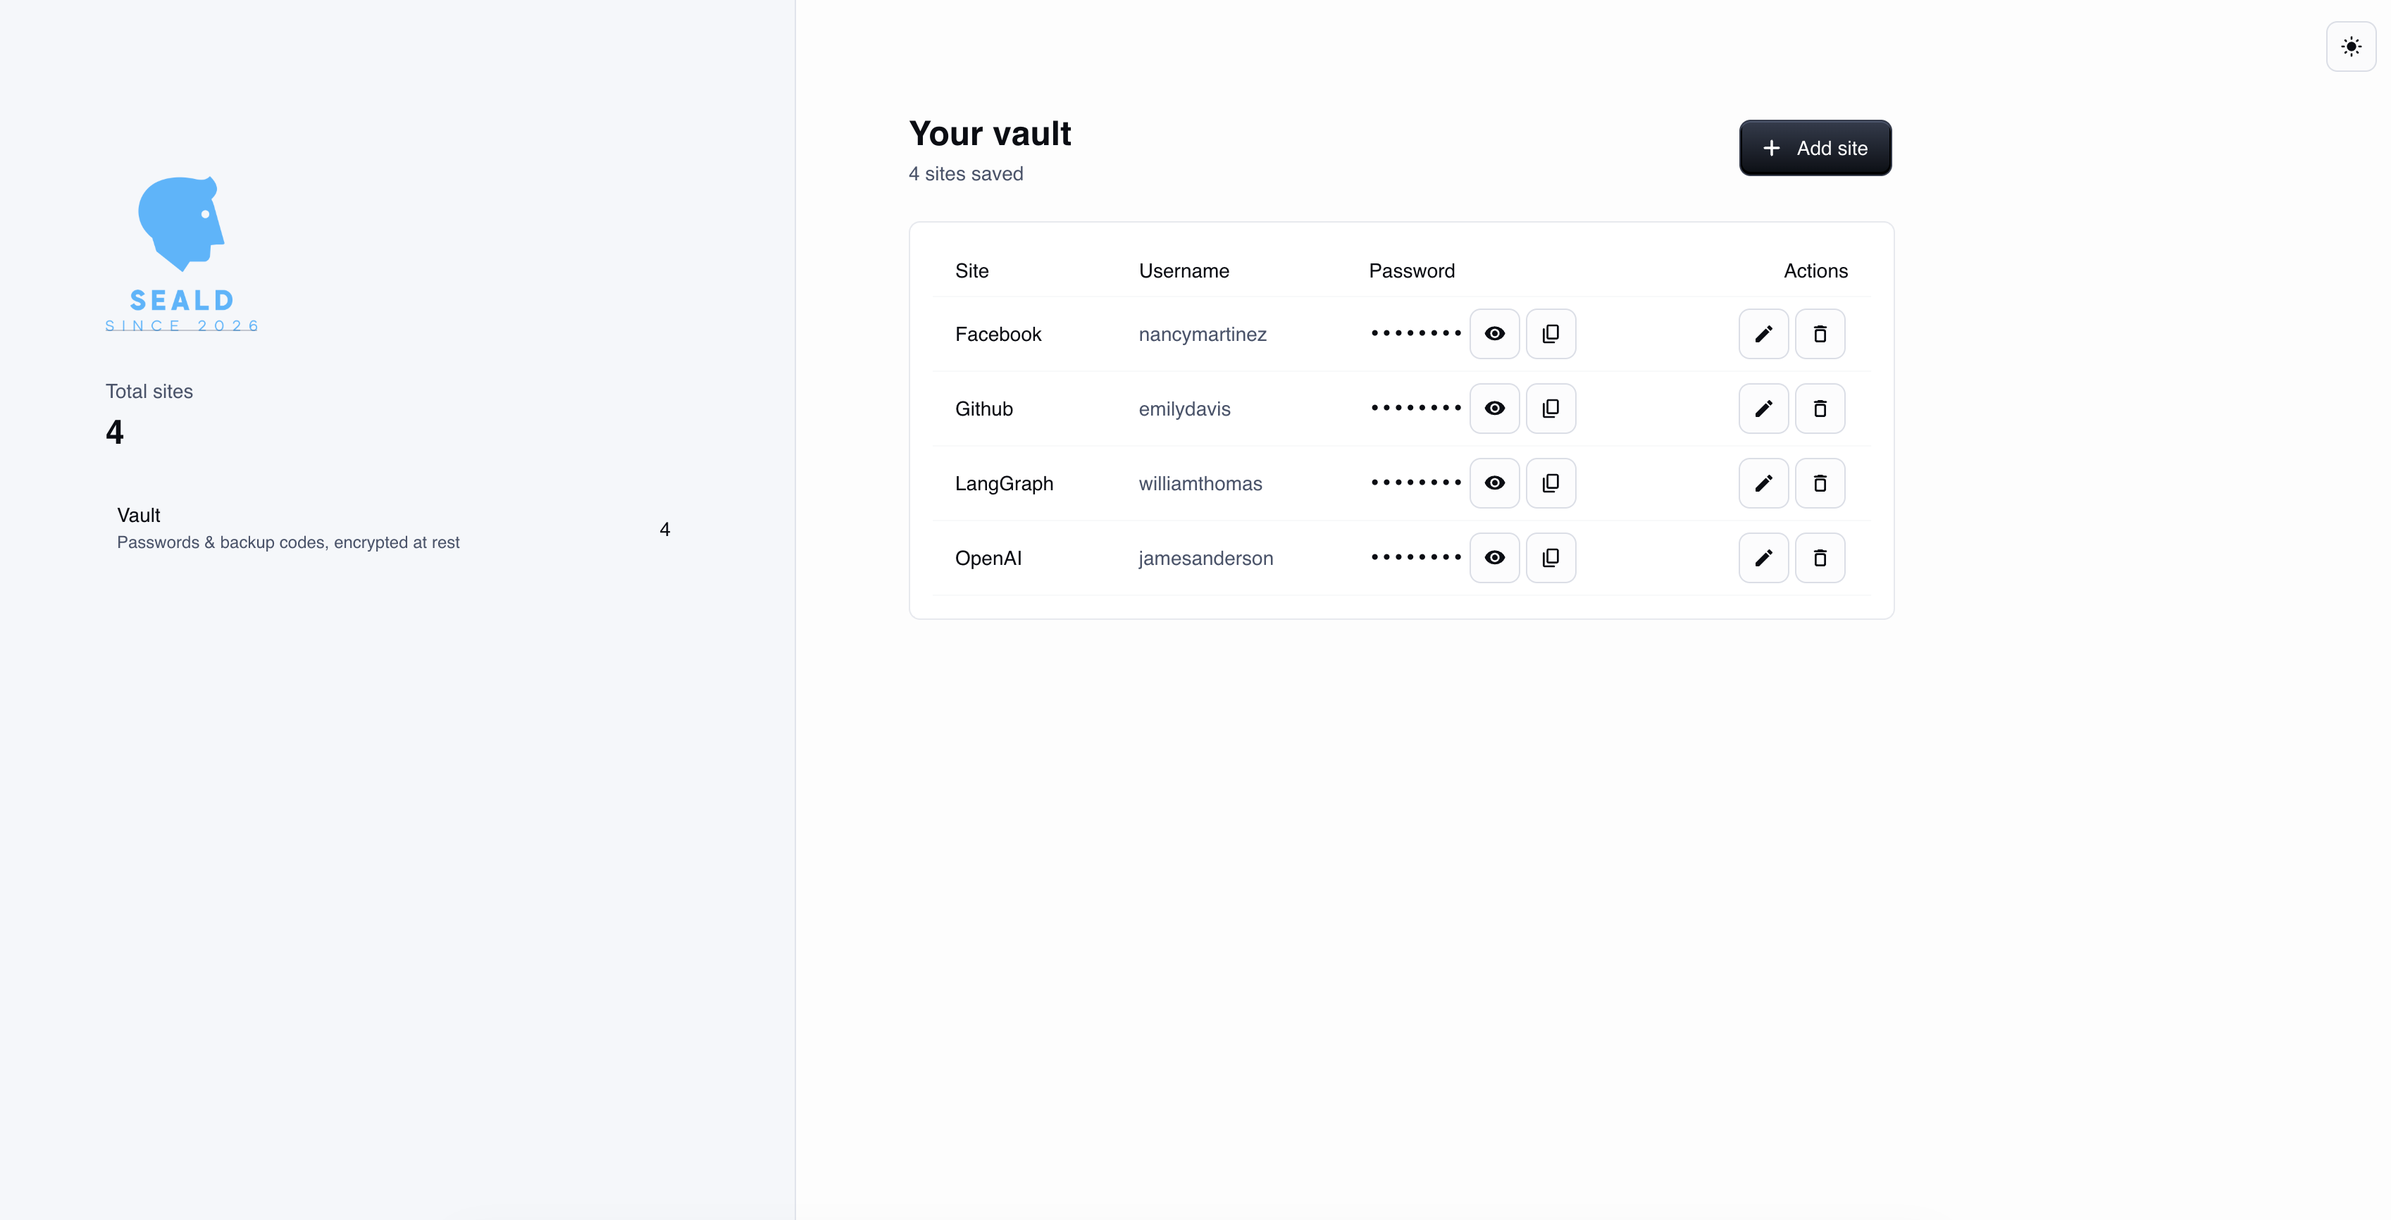
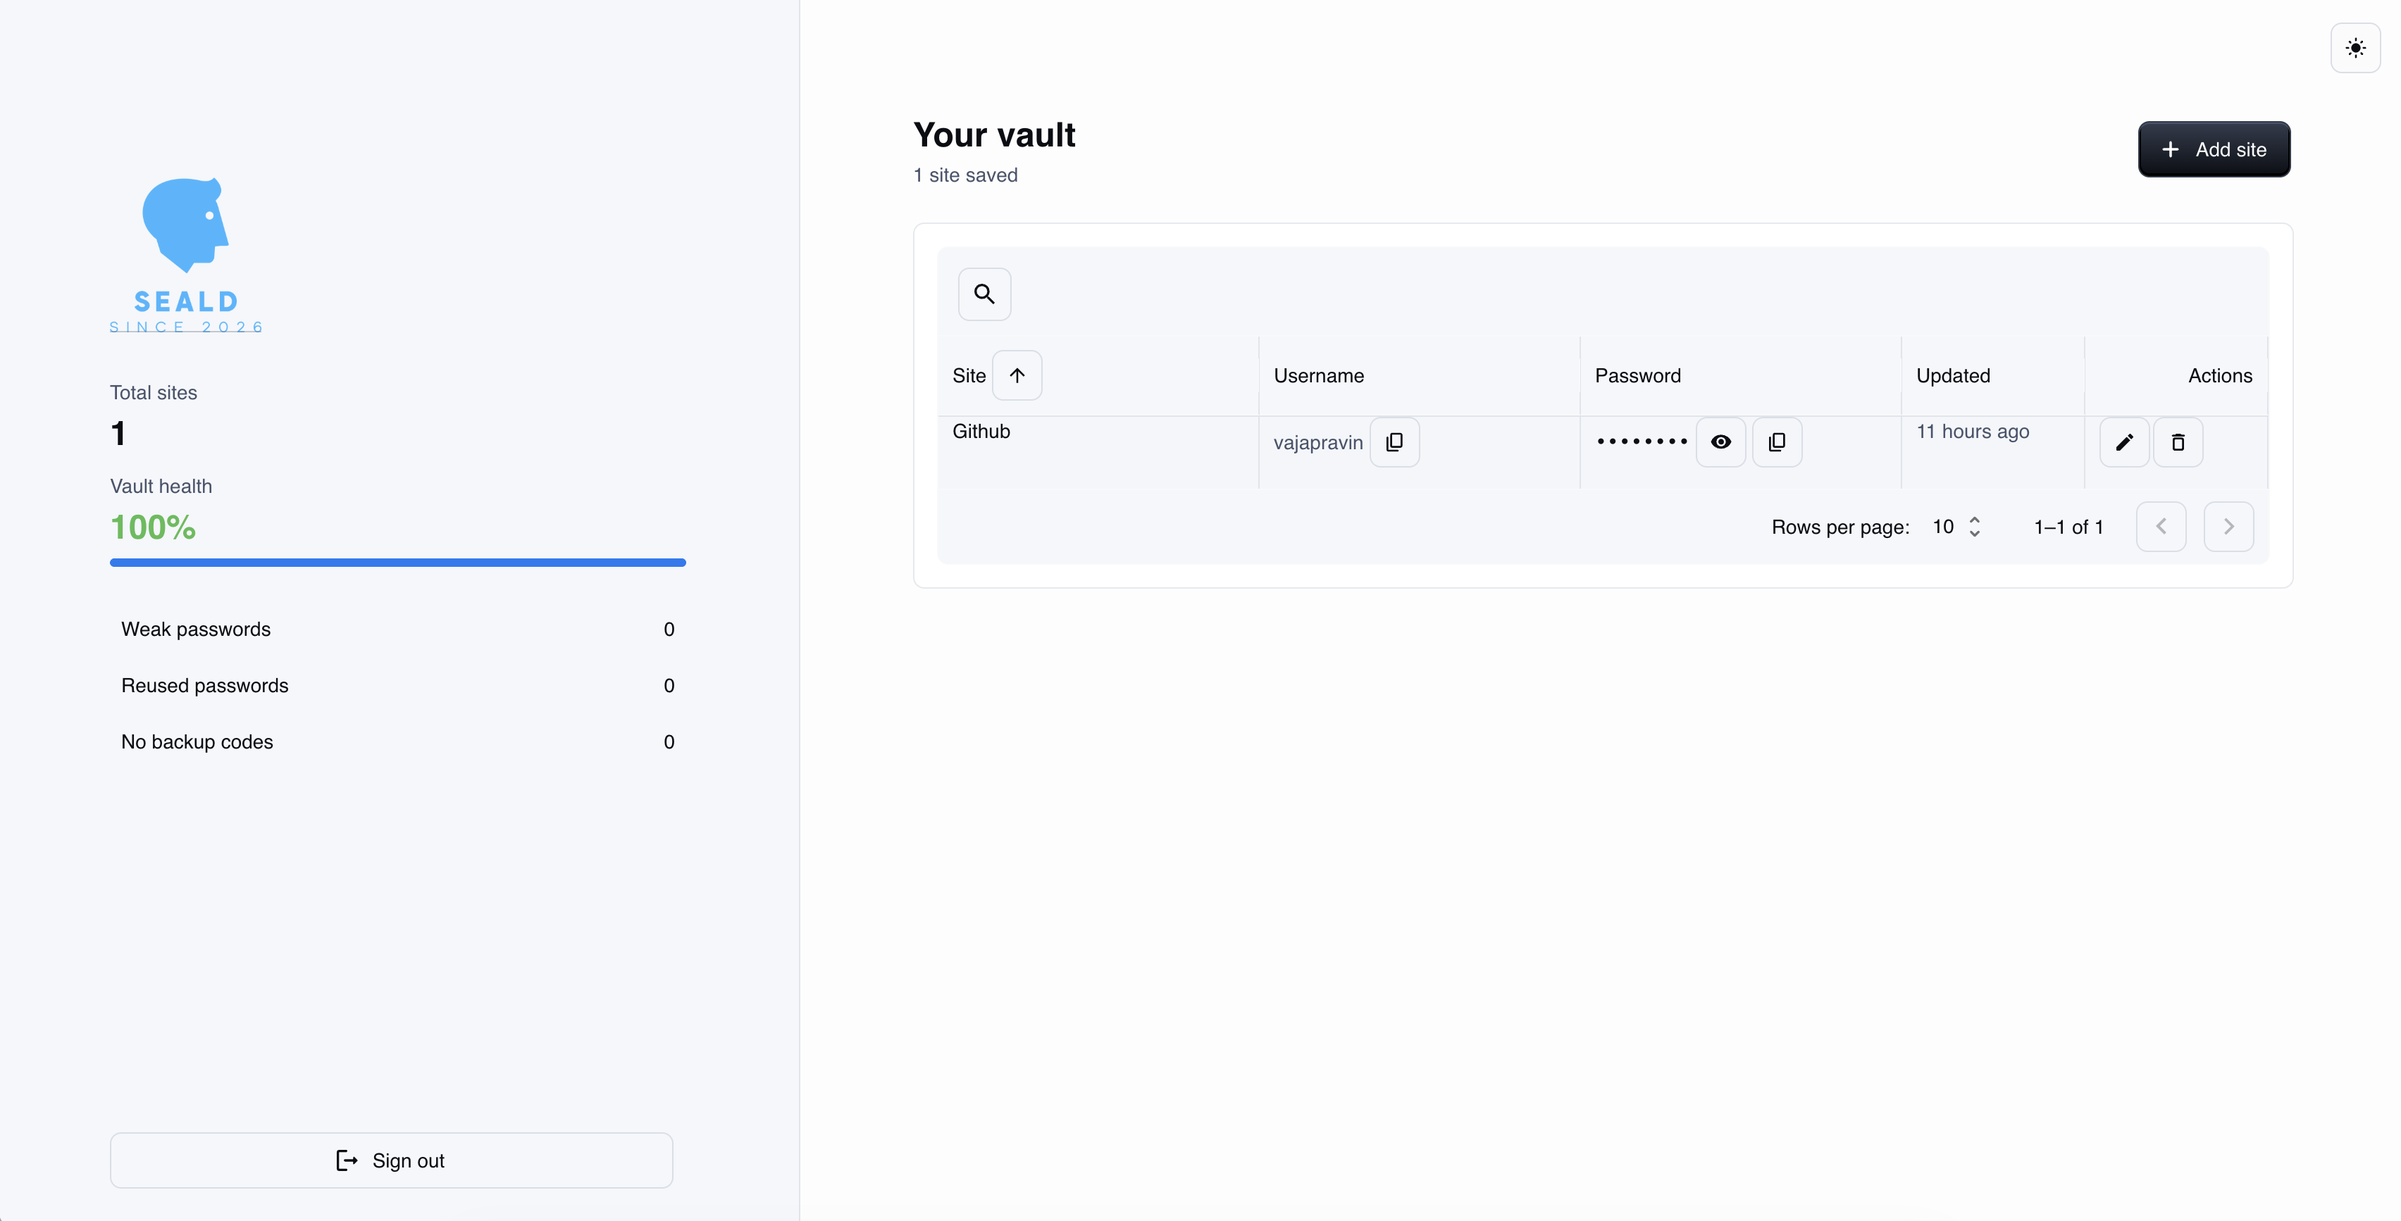
docs: rewrite README for authenticated multi-user app
- Update architecture, features, security sections for auth + per-user vaults
- Rewrite install steps with backend + frontend .env, auth provider setup
- Add sign-in, dashboard, add-site, and edit-site screenshots

diff --git a/README.md b/README.md
@@ -11,104 +11,130 @@
 ![Nginx](https://img.shields.io/badge/Nginx-009639?style=for-the-badge&logo=nginx&logoColor=white)
 ![Docker](https://img.shields.io/badge/Docker-2496ED?style=for-the-badge&logo=docker&logoColor=white)
 
-A self-hosted password and backup-code manager. Seald keeps your site credentials
-and 2FA recovery codes in one place, encrypted at rest, on infrastructure **you**
-control. Built with a FastAPI backend, a React single-page app based on the
-Material UI design system, and Supabase (PostgreSQL) for storage — all wired
-together with Docker Compose so it runs anywhere with two commands.
+A self-hosted, multi-user password and backup-code manager. Seald keeps each
+user's site credentials and 2FA recovery codes in one place, encrypted at rest,
+on infrastructure **you** control. Built with a FastAPI backend, a React
+single-page app based on the Material UI design system, and Supabase
+(PostgreSQL + Auth) — wired together with Docker Compose so it runs anywhere
+with two commands.
 
 ![Seald dashboard](assets/dashboard.png)
 
+## 📸 Screens
+
+<table>
+  <tr>
+    <td width="50%" align="center">
+      <img src="assets/sign-in.png" alt="Sign in" />
+      <br /><sub><b>Sign in</b> — email/password or continue with Google or GitHub</sub>
+    </td>
+    <td width="50%" align="center">
+      <img src="assets/dashboard.png" alt="Vault dashboard" />
+      <br /><sub><b>Vault dashboard</b> — searchable, sortable, with masked passwords and live vault health</sub>
+    </td>
+  </tr>
+  <tr>
+    <td width="50%" align="center">
+      <img src="assets/add-site.png" alt="Add a site" />
+      <br /><sub><b>Add a site</b> — generate strong passwords and backup codes in one place</sub>
+    </td>
+    <td width="50%" align="center">
+      <img src="assets/edit-site.png" alt="Edit a site" />
+      <br /><sub><b>Edit a site</b> — live strength meter with estimated crack time</sub>
+    </td>
+  </tr>
+</table>
+
 ## 🏗 Architecture
 
-The application separates concerns across three layers, so each piece can evolve
-(or be swapped) independently:
+Seald separates concerns across clear layers, so each can evolve independently:
 
 1. **React SPA (frontend)** — a two-panel interface served by nginx: brand and
-   vault summary on the left, your sites on the right. All API traffic is
-   proxied through nginx to the backend, so the browser only ever talks to one
-   origin.
-2. **FastAPI backend** — exposes a versioned REST API (`/api/v1`). Routes handle
-   HTTP and encryption only; storage sits behind a **repository interface**,
-   with a Supabase implementation in production and an in-memory one for tests.
-3. **Encryption layer** — every password and backup code is encrypted with
-   **Fernet (AES-CBC + HMAC, authenticated encryption)** before it leaves the
-   backend process. The database only ever stores ciphertext. Keys support
-   rotation via `MultiFernet` — new writes use the newest key while old data
-   remains readable.
-4. **Supabase (PostgreSQL)** — persistence with Row Level Security enabled.
-   Schema is version-controlled as SQL migrations in `supabase/migrations/`.
+   vault health on the left, your sites on the right. Authentication is handled
+   by the Supabase JS client; every API call carries the user's JWT.
+2. **FastAPI backend** — a versioned REST API (`/api/v1`). It verifies the
+   Supabase-issued JWT on every request, extracts the user, and scopes all data
+   access to that user. Routes handle HTTP and encryption; storage sits behind a
+   repository interface.
+3. **Authentication (Supabase Auth)** — email/password with mandatory email
+   confirmation, plus Google and GitHub social login. Sessions and token refresh
+   are managed client-side; the backend verifies token signatures against the
+   project's public keys (JWKS).
+4. **Encryption layer** — every password and backup code is encrypted with
+   **Fernet (authenticated encryption)** before it leaves the backend. The
+   database only ever stores ciphertext. Keys support rotation.
+5. **Supabase (PostgreSQL)** — per-user persistence. Every vault entry is linked
+   to its owner, protected by **Row Level Security** as a database-level
+   backstop in addition to backend filtering. Schema lives as SQL migrations in
+   `supabase/migrations/`.
 
 ## ✨ Core Features
 
-- **Vault dashboard** — all saved sites at a glance with masked passwords,
-  show/hide toggle, and one-click copy to clipboard.
-- **Add / edit / remove sites** — each entry stores the site, username,
-  password, free-form notes, and 2FA backup codes; deletion asks for
-  confirmation.
-- **Cryptographically secure password generator** — built on Python's `secrets`
-  CSPRNG with guaranteed character-class coverage, optional ambiguous-character
-  exclusion, and a live strength rating (zxcvbn) showing estimated crack time.
-- **Backup-code generator** — creates 2FA-style recovery codes
-  (e.g. `A3F9-K2M7`) in one click.
-- **Encryption at rest** — Fernet authenticated encryption for every secret;
-  key rotation supported out of the box.
-- **Light & dark mode** — full theme toggle, persisted across visits.
-- **Self-contained deployment** — one `docker compose up` brings up the whole
-  stack; nginx serves the SPA and proxies the API.
+- **Multi-user accounts** — register with email and password (email confirmation
+  required), or sign in with Google or GitHub. Each user has a private vault.
+- **Per-user vault isolation** — enforced both in the backend (every query
+  scoped to the authenticated user) and in the database (Row Level Security).
+- **Vault dashboard** — a searchable, sortable table of all saved sites with
+  masked passwords, show/hide, and one-click copy for username and password.
+- **Vault health summary** — at-a-glance score plus counts of weak passwords,
+  reused passwords, and sites missing backup codes.
+- **Add / edit / remove sites** — site, username, password, notes, and 2FA
+  backup codes per entry; deletion asks for confirmation.
+- **Secure password generator** — built on Python's `secrets` CSPRNG with
+  adjustable length, a symbols toggle, and a live strength meter (zxcvbn)
+  showing estimated crack time as you type.
+- **Backup-code generator** — creates 2FA-style recovery codes in one click.
+- **Encryption at rest** — Fernet authenticated encryption for every secret.
+- **Light & dark mode** — full theme toggle.
+- **Self-contained deployment** — one `docker compose up` brings up the stack.
 
 ## 🔒 How Seald protects your data
 
-- **Encrypted at rest.** Secrets are encrypted in the backend before storage.
-  A leaked database dump, a compromised Supabase dashboard, or a stolen backup
-  yields only ciphertext.
-- **Authenticated encryption.** Fernet includes an HMAC — tampered ciphertext
-  is detected and rejected, never silently decrypted into garbage.
-- **Key custody stays with you.** The encryption key lives in your `.env` on
-  your server, never in the database and never in the repository.
-- **Least-privilege configuration.** Only the backend container receives
-  database credentials; the frontend container holds no secrets at all.
-  Row Level Security is enabled on the database.
+- **Authentication on every request.** The backend rejects any request without a
+  valid, signature-verified Supabase JWT. Nothing in the vault is reachable
+  unauthenticated.
+- **Per-user isolation, defense in depth.** The backend filters every query by
+  the authenticated user, and Postgres Row Level Security independently prevents
+  one user's rows from being returned to another — even a backend bug can't leak
+  across users.
+- **Encrypted at rest.** Secrets are encrypted in the backend before storage. A
+  leaked database dump, a compromised dashboard, or a stolen backup yields only
+  ciphertext.
+- **Authenticated encryption.** Fernet includes an HMAC — tampered ciphertext is
+  detected and rejected, never silently decrypted.
+- **Key custody stays with you.** The encryption key lives in your backend `.env`
+  on your server, never in the database and never in the repository.
+- **Least-privilege configuration.** Only the backend holds database and signing
+  credentials; the frontend holds only the public Supabase anon key.
 - **No telemetry, no third parties.** Seald makes no outbound calls except to
-  your own Supabase instance. Nothing is phoned home, analyzed, or sold.
-
-> ⚠ **Honest scope note:** Seald does not yet include user authentication —
-> anyone who can reach the backend port can use the API. Run it only on
-> networks you control (localhost, home lab, VPN such as Tailscale/WireGuard)
-> until the auth milestone lands. See the roadmap below.
+  your own Supabase instance.
 
 ## 🤔 Why Seald instead of a third-party password manager?
 
 Commercial managers (1Password, LastPass, Dashlane, …) are excellent products —
-but they come with trade-offs that self-hosting removes.
+but self-hosting removes trade-offs they can't.
 
 **Pros of Seald**
 
-- **Your data never leaves your infrastructure.** Third-party managers are
-  high-value targets precisely because they aggregate millions of vaults —
-  LastPass's 2022 breach exposed customer vault backups. Seald's blast radius
-  is one user: you.
-- **Zero cost, forever.** No subscription, no seat licenses, no feature
-  paywalls. Supabase's free tier comfortably covers personal use.
-- **Full auditability.** Every line of code is in this repository. You don't
-  have to trust marketing claims about encryption — you can read
-  `backend/app/core/crypto.py` yourself.
-- **No vendor lock-in.** Your data sits in a plain PostgreSQL table you own.
-  Export it with one SQL query; decrypt it with your key.
+- **Your data never leaves your infrastructure.** Third-party managers aggregate
+  millions of vaults, which makes them high-value targets — LastPass's 2022
+  breach exposed customer vault backups. Seald's blast radius is your own users.
+- **Zero cost.** No subscription, no seat licenses, no feature paywalls.
+  Supabase's free tier comfortably covers personal and small-team use.
+- **Full auditability.** Every line is in this repository. You don't have to
+  trust claims about the encryption — you can read `backend/app/core/crypto.py`.
+- **No vendor lock-in.** Your data sits in a PostgreSQL table you own.
 - **Backup codes as a first-class feature.** Most managers treat 2FA recovery
-  codes as an afterthought; Seald stores them alongside each site's credentials.
+  codes as an afterthought; Seald stores them alongside each site.
 
 **Cons (equally honest)**
 
 - **You are the security team.** Updates, server hardening, key backups, and
-  database backups are your responsibility. A forgotten encryption key means
+  database backups are your responsibility. A lost encryption key means
   permanently lost data — by design.
-- **No auth yet** — see the scope note above; commercial products ship MFA,
-  sharing, and breach monitoring today.
 - **No browser extension or autofill.** Copy/paste workflow only, for now.
-- **No sync clients** — it's a web app; there are no native mobile apps.
-- **Community of one.** No support hotline, no SOC 2 report, no bug bounty
-  program backing it.
+- **No native mobile or sync clients** — it's a web app.
+- **Community of one.** No support hotline, no SOC 2 report, no bug bounty.
 
 If you want zero-maintenance convenience, buy a commercial manager. If you want
 ownership, transparency, and zero cost — and you're comfortable running Docker —
@@ -117,25 +143,69 @@ Seald is for you.
 ## 🚀 Installation
 
 **Prerequisites:** Docker with Compose, a free [Supabase](https://supabase.com)
-project, and Python 3.12+ (only for generating the encryption key).
+project, and Python 3.12+ (only to generate the encryption key).
+
+### 1. Clone
 
 ```bash
-# 1. Clone
 git clone https://github.com/vajapravin/seald.git
 cd seald
+```
 
-# 2. Configure the backend
+### 2. Set up the database
+
+In your Supabase project's SQL Editor, run the migrations in
+`supabase/migrations/` in order. This creates the `sites` table, links it to
+users, and enables Row Level Security.
+
+### 3. Configure authentication (Supabase dashboard)
+
+- **Authentication → Providers → Email:** enable it and turn **Confirm email ON**.
+- **Authentication → URL Configuration:** add `http://localhost:3000` to the
+  Site URL and the Redirect URLs allowlist (include
+  `http://localhost:3000/auth/callback`).
+- **Social login (optional):** enable Google and/or GitHub under
+  **Authentication → Providers**, using OAuth apps whose callback URL is your
+  project's `https://<ref>.supabase.co/auth/v1/callback`.
+
+### 4. Configure the backend
+
+```bash
 cp backend/.env.example backend/.env
-# Fill in from your Supabase project (Settings → API):
-#   SUPABASE_URL, SUPABASE_SERVICE_ROLE_KEY
-# Generate the encryption key and paste it as ENCRYPTION_KEYS:
-python -c "from cryptography.fernet import Fernet; print(Fernet.generate_key().decode())"
+```
 
-# 3. Create the database schema
-#    Open your Supabase project → SQL Editor → run the contents of
-#    supabase/migrations/*.sql
+Fill in `backend/.env`:
 
-# 4. Launch
+```
+SUPABASE_URL=https://<your-project-ref>.supabase.co
+SUPABASE_SERVICE_ROLE_KEY=<service role key>   # Settings -> API
+STORAGE_BACKEND=supabase
+
+# Generate with:
+# python -c "from cryptography.fernet import Fernet; print(Fernet.generate_key().decode())"
+ENCRYPTION_KEYS=<generated key>
+
+# Legacy - only used if your project signs JWTs with the older HS256 secret.
+# Projects using asymmetric (ES256) keys verify via JWKS and don't need this.
+SUPABASE_JWT_SECRET=
+```
+
+### 5. Configure the frontend
+
+```bash
+cp frontend/.env.example frontend/.env
+```
+
+Fill in `frontend/.env` (both values are public-safe):
+
+```
+VITE_SUPABASE_URL=https://<your-project-ref>.supabase.co
+VITE_SUPABASE_ANON_KEY=<anon key>   # Settings -> API
+```
+
+### 6. Launch
+
+```bash
 docker compose up --build -d
 ```
 
@@ -143,13 +213,13 @@ Then open:
 
 | URL | What |
 |---|---|
-| http://localhost:3000 | The Seald web app |
+| http://localhost:3000 | The Seald web app (register or sign in to start) |
 | http://localhost:8000/docs | Interactive API documentation |
 | http://localhost:8000/health | Backend health check |
 
-> 🔑 **Back up your `ENCRYPTION_KEYS` value somewhere safe and separate from
-> the database.** Losing it means losing every stored secret, permanently.
-> That is the point of encryption — there is no recovery path.
+> 🔑 **Back up your `ENCRYPTION_KEYS` value somewhere safe and separate from the
+> database.** Losing it means losing every stored secret, permanently. That is
+> the point of encryption — there is no recovery path.
 
 ## 🧪 Development
 
@@ -169,12 +239,11 @@ through pull requests with green checks.
 
 ## 🗺 Roadmap
 
-- [ ] **Authentication & row-level security** — multi-user support with
-  per-user vault isolation (next milestone)
-- [ ] Dashboard search, filtering, and sorting
+- [ ] Account-level 2FA (TOTP) for the Seald login itself, toggleable in settings
+- [ ] Dashboard filtering and column improvements
+- [ ] Encrypted vault export & import
+- [ ] Breach checking (HaveIBeenPwned, k-anonymity)
 - [ ] End-to-end encryption (client-side, zero-knowledge)
-- [ ] Vault export & encrypted backups
-- [ ] Browser extension
 
 ## 📄 License
 

diff --git a/CHANGELOG.md b/CHANGELOG.md
@@ -5,6 +5,19 @@ Format: [Keep a Changelog](https://keepachangelog.com/) · Versioning: [SemVer](
 
 ## [Unreleased]
 
+## [0.8.0] - 2026-07-31
+
+### Added
+- User authentication (Supabase Auth): email + password with confirmation, Google and GitHub social login
+- Per-user vault isolation: backend JWT verification (ES256/JWKS), user-scoped queries, RLS backstop
+- Sign-in, register, and email-confirmation callback screens
+- Vault health summary in the left panel (weak/reused/no-backup counts + score)
+
+### Changed
+- README overhauled to reflect the authenticated multi-user architecture
+
+## [Released]
+
 ## [0.7.0] - 2026-07-31
 
 ### Added
@@ -12,8 +25,6 @@ Format: [Keep a Changelog](https://keepachangelog.com/) · Versioning: [SemVer](
 
 ### Changed
 - Sites data lifted into a shared VaultContext (single fetch, consumed by dashboard and summary)
-
-## [Released]
 
 ## [0.6.0] - 2026-07-31
 
